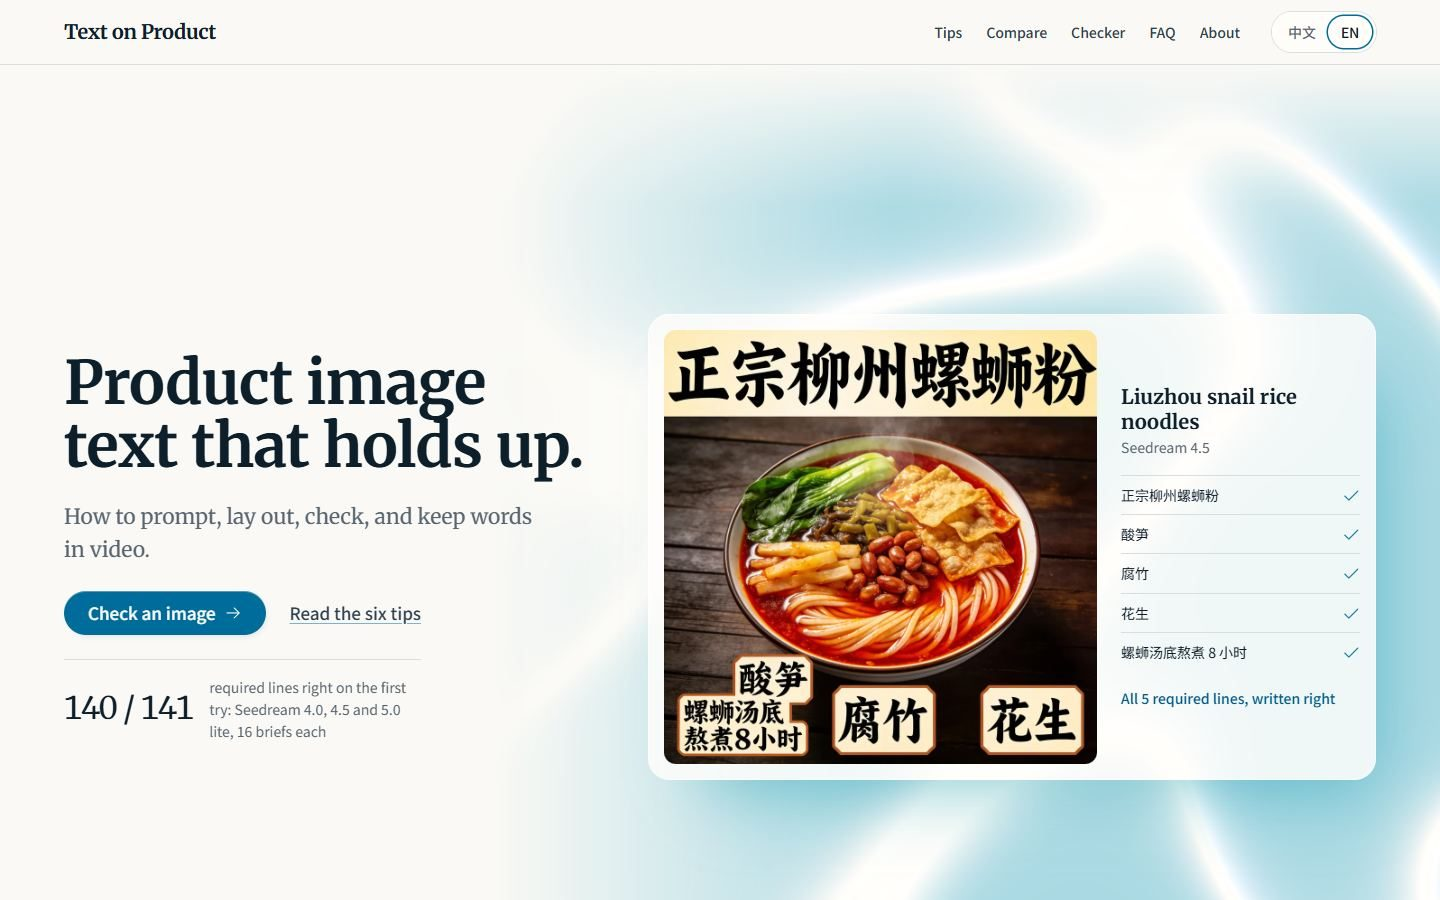
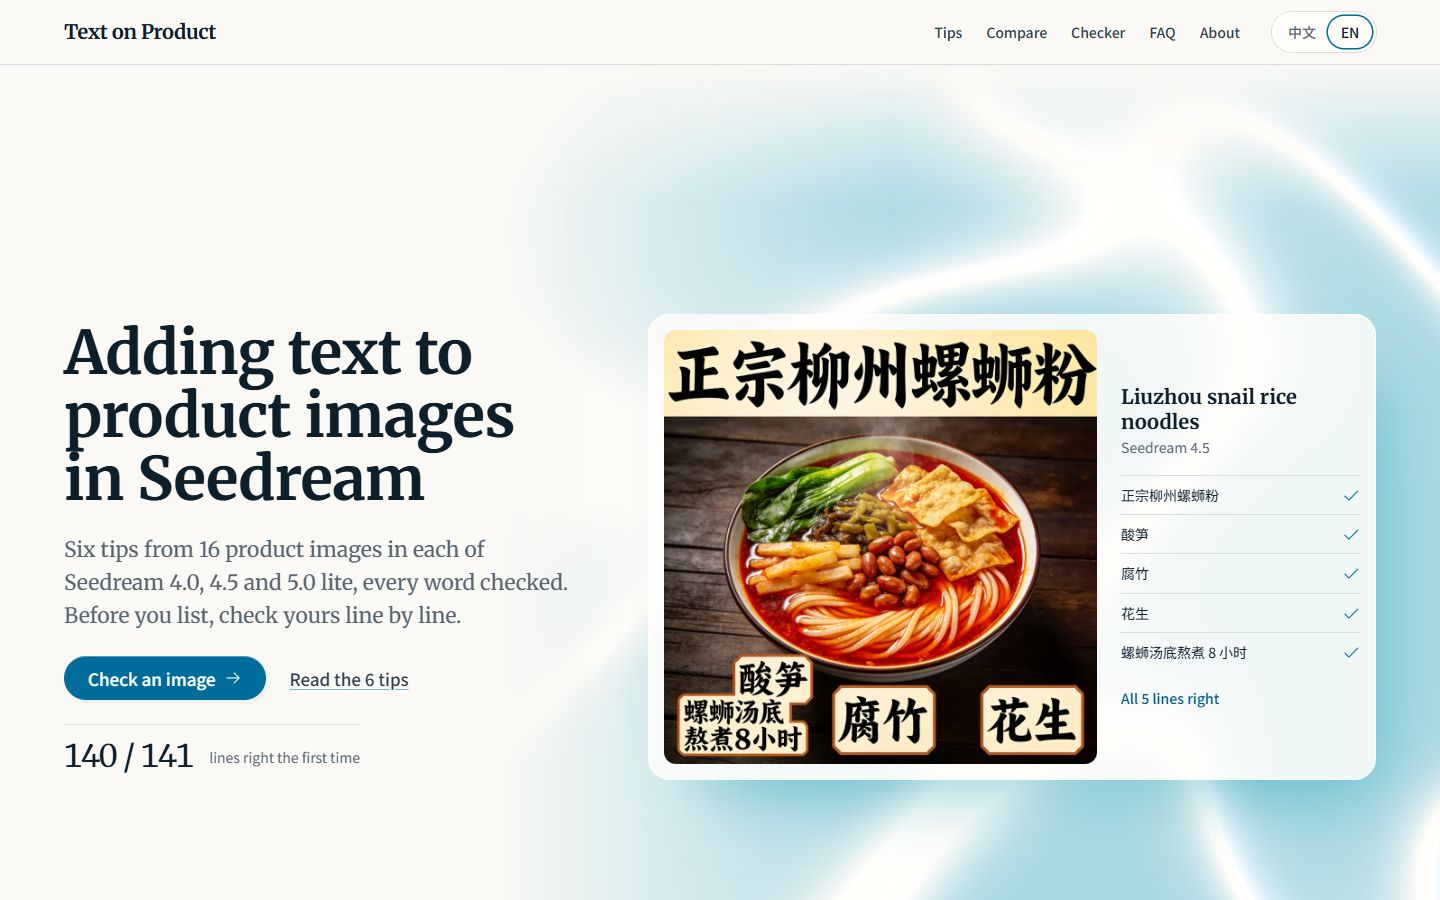
Text on Product: new one-line summary and first-screen shots

diff --git a/index.html b/index.html
@@ -146,7 +146,7 @@
         <article class="work" aria-labelledby="w-text">
           <div class="work-text">
             <h3 id="w-text">Text on Product</h3>
-            <p><span data-l="en">Tips for Chinese selling points on Seedream product images, and a checker that flags any line off the brief.</span><span data-l="zh">Seedream 电商主图上的中文卖点字怎么写最稳，加一个逐行标出不一样的字的核对工具。</span></p>
+            <p><span data-l="en">Six tips for Chinese text on Seedream product images, and a checker that flags any line off the brief.</span><span data-l="zh">Seedream 主图加字的 6 条做法，和一个逐行查字的核对工具。</span></p>
             <div class="figs">
               <div><span class="fig">140 / 141</span><span class="small"><span data-l="en">lines right first time</span><span data-l="zh">行字一次写对</span></span></div>
               <div><span class="fig">80 / 80</span><span class="small"><span data-l="en">planted errors caught</span><span data-l="zh">处故意改错全部抓到</span></span></div>
